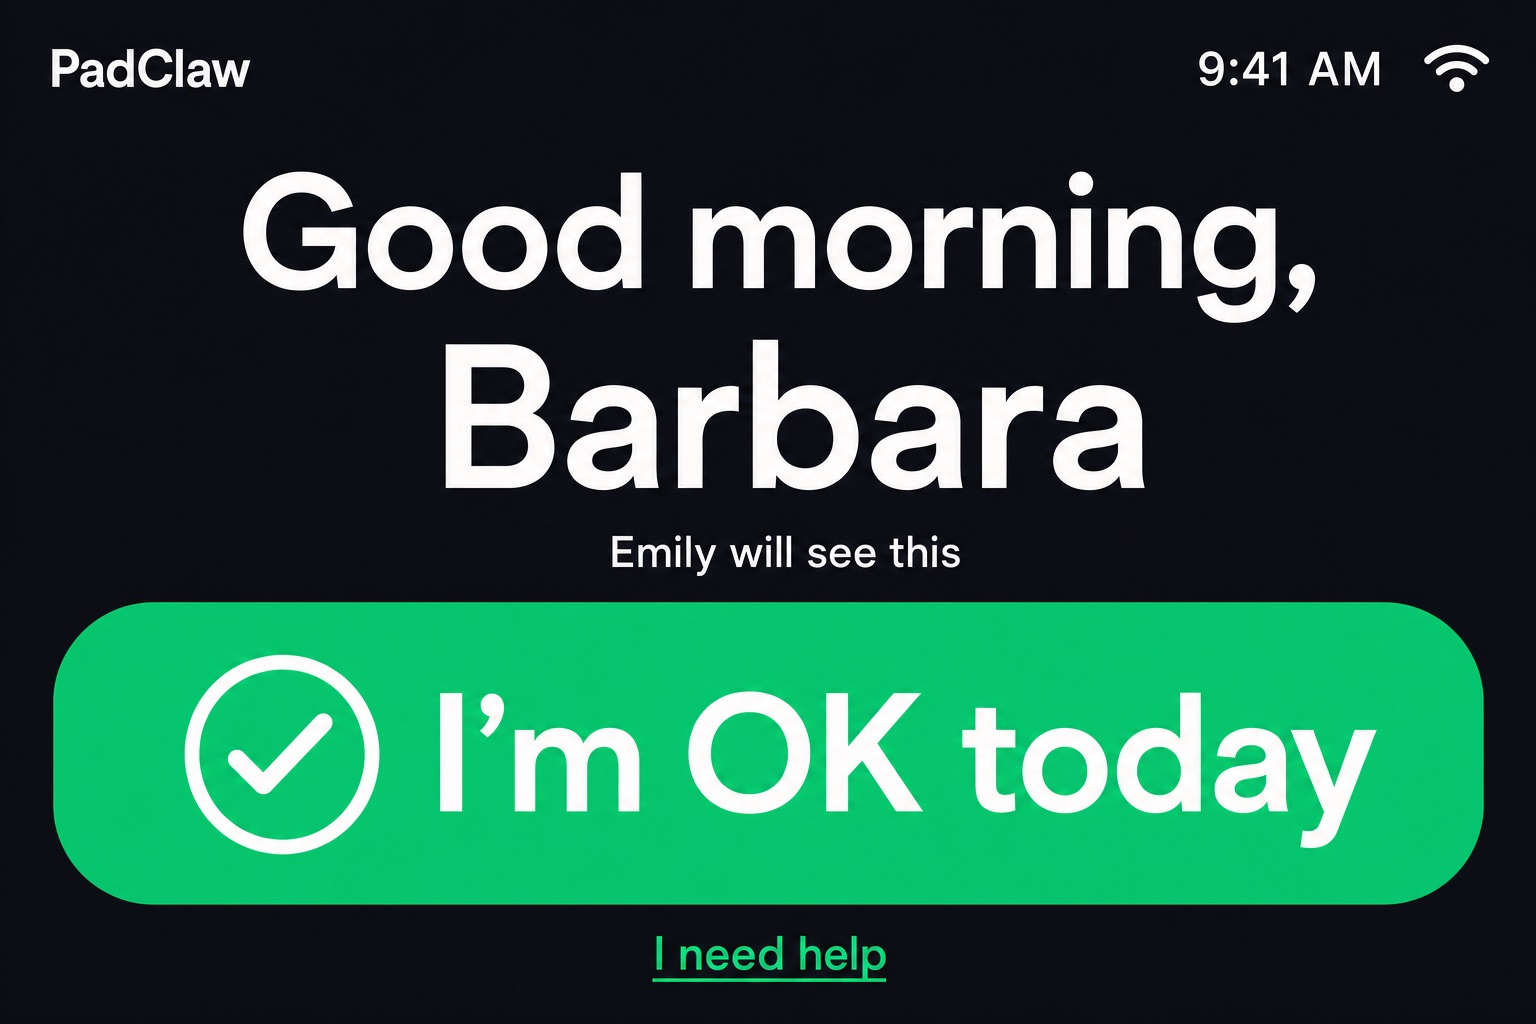
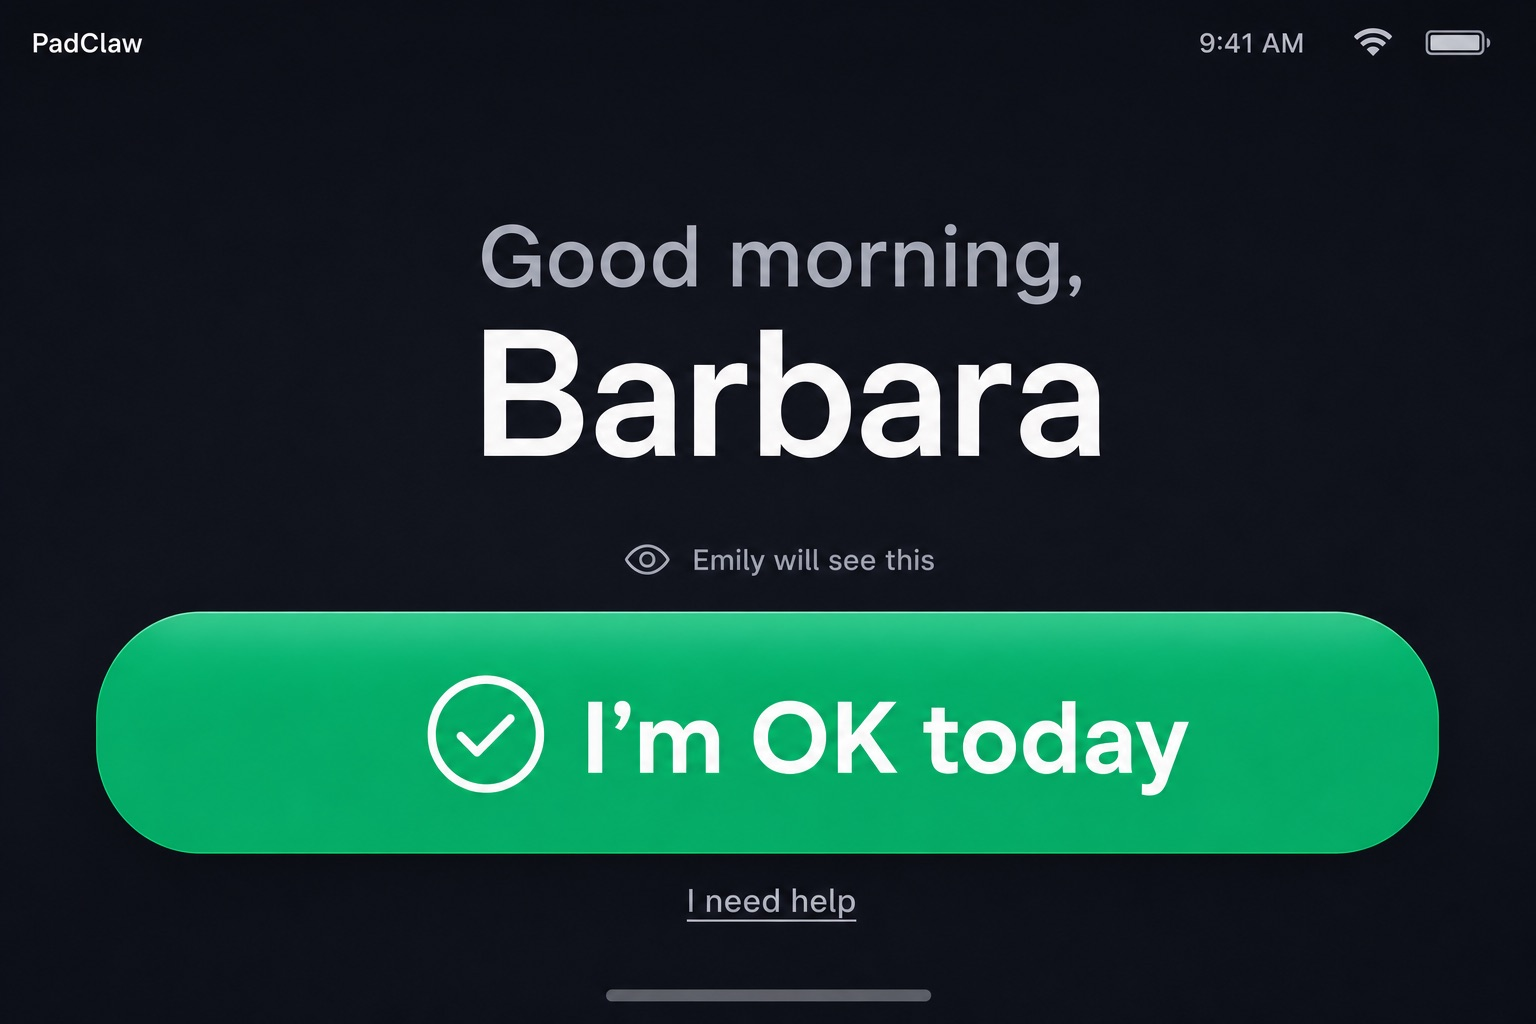
Regenerate all 14 app UI mockups at design-system fidelity
- Every prompt rewritten with a precise design system: token palette
  (#0E1116 bg / #1A1F27 surfaces / #05CE78 single-accent), 8pt grid,
  type ramp with tabular numerals, 2px line-icon set, unified status bar
  + home pill, senior-friendly touch targets
- app-screens.html: new Design Tokens handoff section for the UI designer
  (color/typography/components/principles tables)

diff --git a/app-screens.html b/app-screens.html
@@ -22,6 +22,19 @@
     .sect-head h2{font-size:21px;font-weight:800}
     .sect-desc{color:#8a919c;font-size:13.5px;margin-bottom:24px;max-width:780px}
 
+    .ds{background:#12161d;border:1px solid #222a35;border-radius:16px;padding:26px;margin-bottom:52px}
+    .ds h2{font-size:18px;font-weight:800;margin-bottom:4px}
+    .ds .ds-sub{color:#8a919c;font-size:13px;margin-bottom:20px}
+    .ds-grid{display:grid;grid-template-columns:repeat(2,1fr);gap:14px}
+    .ds-card{background:#0e1218;border:1px solid #1e2631;border-radius:12px;padding:16px 18px}
+    .ds-card h4{font-size:12px;font-weight:800;letter-spacing:.1em;text-transform:uppercase;color:#05CE78;margin-bottom:10px}
+    .ds-card table{width:100%;border-collapse:collapse;font-size:12.5px}
+    .ds-card td{padding:5px 0;color:#aab2bd;border-bottom:1px solid #171d26;vertical-align:top}
+    .ds-card td:first-child{color:#e8eaed;font-weight:600;width:44%;padding-right:10px}
+    .ds-card td code{font-family:ui-monospace,Menlo,monospace;font-size:11.5px;background:#161b23;border-radius:4px;padding:1px 6px;color:#9fd8bc}
+    .swatch{display:inline-block;width:12px;height:12px;border-radius:3px;margin-right:6px;vertical-align:-1px;border:1px solid rgba(255,255,255,.15)}
+    @media(max-width:860px){.ds-grid{grid-template-columns:1fr}}
+
     .screen{display:grid;grid-template-columns:1.35fr 1fr;gap:26px;align-items:center;background:#12161d;border:1px solid #222a35;border-radius:16px;padding:24px;margin-bottom:18px}
     .screen.flip .scr-media{order:2}
     .scr-media .frame{background:#1a1d22;border-radius:18px;padding:12px;box-shadow:0 10px 30px rgba(0,0,0,.35)}
@@ -40,11 +53,64 @@
   <h1>APP 介面與功能細節總覽</h1>
   <p class="sub">PadClaw 裝置端軟體的 <strong>14 個核心畫面</strong>，以純 UI mockup 呈現（規劃中軟體 · planned software）。設計語言：深炭底 <strong>#111418</strong>、品牌綠 <strong>#05CE78</strong>、超大字級與大型觸控目標（senior-friendly）、每個畫面只做一件事。</p>
   <div class="toc">
+    <a href="#s-ds">設計規範</a>
     <a href="#s-core">01 系統核心</a>
     <a href="#s-health">02 Family Health</a>
     <a href="#s-astro">03 Horoscope</a>
     <a href="#s-weather">04 Weather</a>
     <a href="#s-learning">05 Learning</a>
+  </div>
+
+  <!-- ============ DESIGN SYSTEM ============ -->
+  <div class="ds" id="s-ds">
+    <h2>設計規範 · Design Tokens（UI 設計師交接用）</h2>
+    <p class="ds-sub">所有畫面依此系統繪製。設計師可直接以此為 Figma variables 起點；示意圖為 AI 輔助草稿，最終以本規範為準。</p>
+    <div class="ds-grid">
+      <div class="ds-card">
+        <h4>Color</h4>
+        <table>
+          <tr><td><span class="swatch" style="background:#0E1116"></span>bg / base</td><td><code>#0E1116 → #14181F</code> 縱向微漸層</td></tr>
+          <tr><td><span class="swatch" style="background:#1A1F27"></span>surface / card</td><td><code>#1A1F27</code>＋1px <code>rgba(255,255,255,.07)</code> hairline</td></tr>
+          <tr><td><span class="swatch" style="background:#05CE78"></span>accent / primary</td><td><code>#05CE78</code>（每畫面僅一個主要動作）· pressed <code>#04AE66</code></td></tr>
+          <tr><td><span class="swatch" style="background:#F2F4F7"></span>text / primary</td><td><code>#F2F4F7</code></td></tr>
+          <tr><td><span class="swatch" style="background:#98A2B3"></span>text / secondary</td><td><code>#98A2B3</code> · disabled <code>#5B6472</code></td></tr>
+          <tr><td>對比要求</td><td>本文層級 ≥ 7:1（senior-friendly，超過 WCAG AA）</td></tr>
+        </table>
+      </div>
+      <div class="ds-card">
+        <h4>Typography（Inter / 等價 grotesque）</h4>
+        <table>
+          <tr><td>Display 數字</td><td>96–160px · semibold · tabular lining（溫度、題目、姓名）</td></tr>
+          <tr><td>H1 / H2</td><td>40–44px / 26–34px · semibold · 緊排</td></tr>
+          <tr><td>Body</td><td>≥ 22px（senior 畫面 ≥ 24px），行高 1.4</td></tr>
+          <tr><td>Micro-label</td><td>12–14px · ALL-CAPS · +8% 字距 · <code>#98A2B3</code></td></tr>
+          <tr><td>Caption / link</td><td>16–18px · 連結加底線（長輩辨識）</td></tr>
+        </table>
+      </div>
+      <div class="ds-card">
+        <h4>Layout &amp; Components</h4>
+        <table>
+          <tr><td>Grid</td><td>8pt 間距系統 · 外邊距 48px · 卡片間距 16–24px</td></tr>
+          <tr><td>圓角</td><td>卡片 20px · 按鈕全圓 pill · 縮圖 12px</td></tr>
+          <tr><td>主按鈕</td><td>綠底白字 pill，高 64px（senior 畫面 88–160px）＋8% 頂部亮邊</td></tr>
+          <tr><td>次按鈕</td><td>1.5px <code>#2A313C</code> 外框 pill</td></tr>
+          <tr><td>Checkbox</td><td>56–64px 圓角方塊 · 3px 框 · 勾選轉綠底白勾</td></tr>
+          <tr><td>Progress</td><td>8px 全圓角 · 軌道 <code>#262D38</code> · 填色 accent</td></tr>
+          <tr><td>Icon</td><td>幾何線性圖標 · 2px 圓頭描邊 · 24px 網格 · 禁用 emoji（歡迎頁揮手除外）</td></tr>
+          <tr><td>Status bar</td><td>左 PadClaw 字標 15px · 右 9:41 AM＋Wi-Fi＋電量 · 高 48px</td></tr>
+        </table>
+      </div>
+      <div class="ds-card">
+        <h4>Principles</h4>
+        <table>
+          <tr><td>一屏一事</td><td>每畫面只有一個主要動作；永不出現第二層選單</td></tr>
+          <tr><td>克制的綠</td><td>accent 僅用於主要動作、焦點環、正向狀態</td></tr>
+          <tr><td>夜間模式</td><td>整體降至 30% 亮度、白色偏琥珀、禁用純白</td></tr>
+          <tr><td>可及性</td><td>觸控目標 ≥ 56px；所有狀態同時以圖標＋文字表達（不依賴顏色）</td></tr>
+          <tr><td>語氣</td><td>介面文案對人說話（"Emily will see this"），不用系統腔（"Sharing enabled"）</td></tr>
+        </table>
+      </div>
+    </div>
   </div>
 
   <!-- ============ 01 CORE ============ -->
